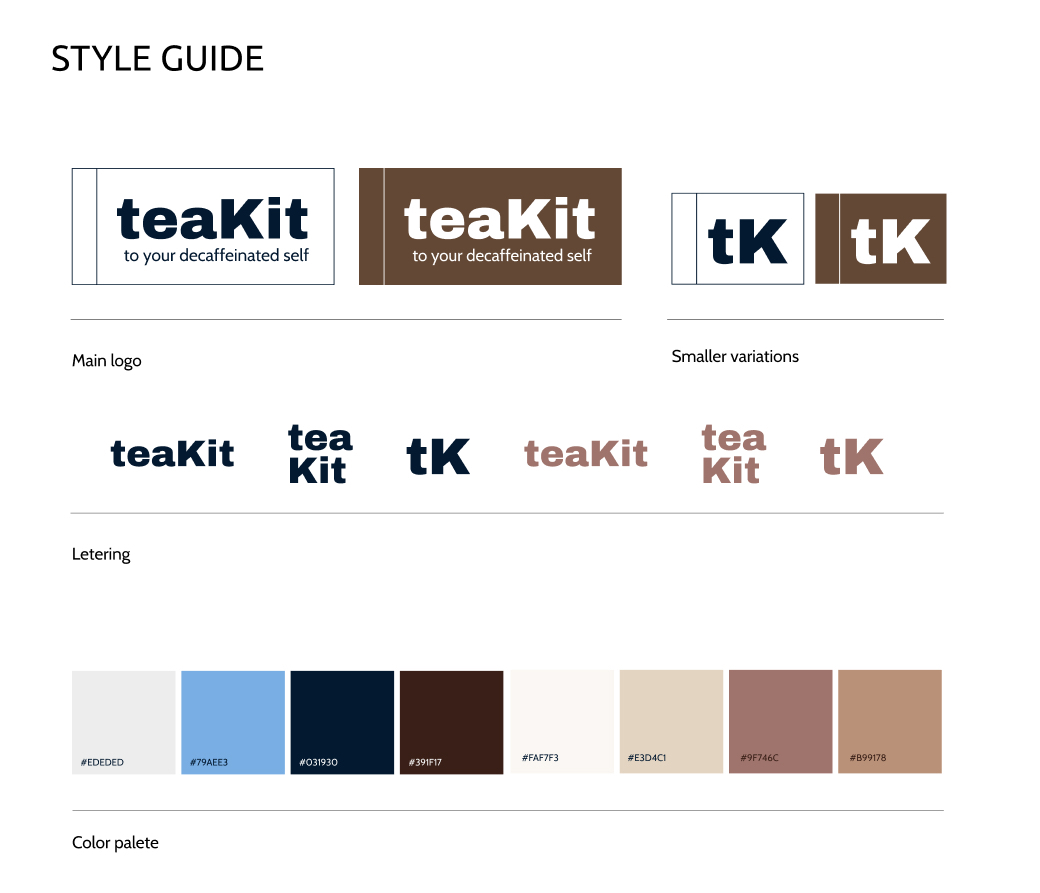
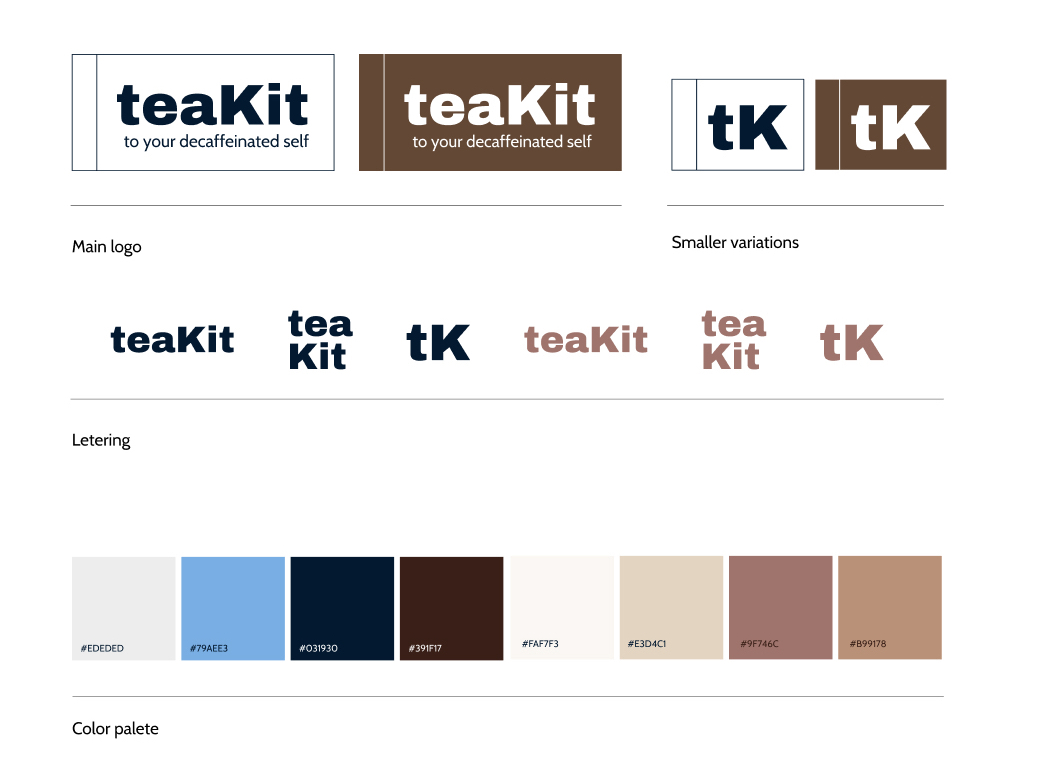
images added

diff --git a/teakit.html b/teakit.html
@@ -392,9 +392,70 @@
       src="./images/styleguide-teakit.jpg"
       alt="the styleguide of teakit brand"
       width="1040"
-      height="893"
+      height="779"
       />
       </figure>
+  </section>
+
+  <section class="work-text">
+    <div>
+        <h2 class="title">FINAL DESiGN</h2>
+        <h4>1. Website</h4>
+    </div>
+
+    <figure class="moodboard-image">
+      <img
+      src="./images/teakitwebsite-mockup.jpg"
+      alt="the styleguide of teakit brand"
+      width="1214"
+      height="809"
+      />
+    </figure>
+
+    <figure class="moodboard-image">
+      <img
+      src="./images/teakitwebsitehomepage-mockup.jpg"
+      alt="the laptop mockup of the teakit website homepage"
+      width="1214"
+      height="809"
+      />
+    </figure>
+
+    <div>
+      <h4>2. Product</h4>
+    </div>
+
+    <figure class="moodboard-image">
+      <img
+      src="./images/teakitbox-mockup.jpg"
+      alt="teakit box mock-up"
+      width="1214"
+      height="809"
+      />
+    </figure>
+
+    <figure class="moodboard-image">
+      <img
+      src="./images/teakitcollateral-mockup.jpg"
+      alt="the collateral mock-up"
+      width="1214"
+      height="809"
+      />
+    </figure>
+
+    <div>
+      <h4>3. Mobile App</h4>
+    </div>
+
+    <figure class="moodboard-image">
+      <img
+      src="./images/teakitapp-mockup.jpg"
+      alt="the collateral mock-up"
+      width="1214"
+      height="1199"
+      />
+    </figure>
+     
   </section>
 
 
